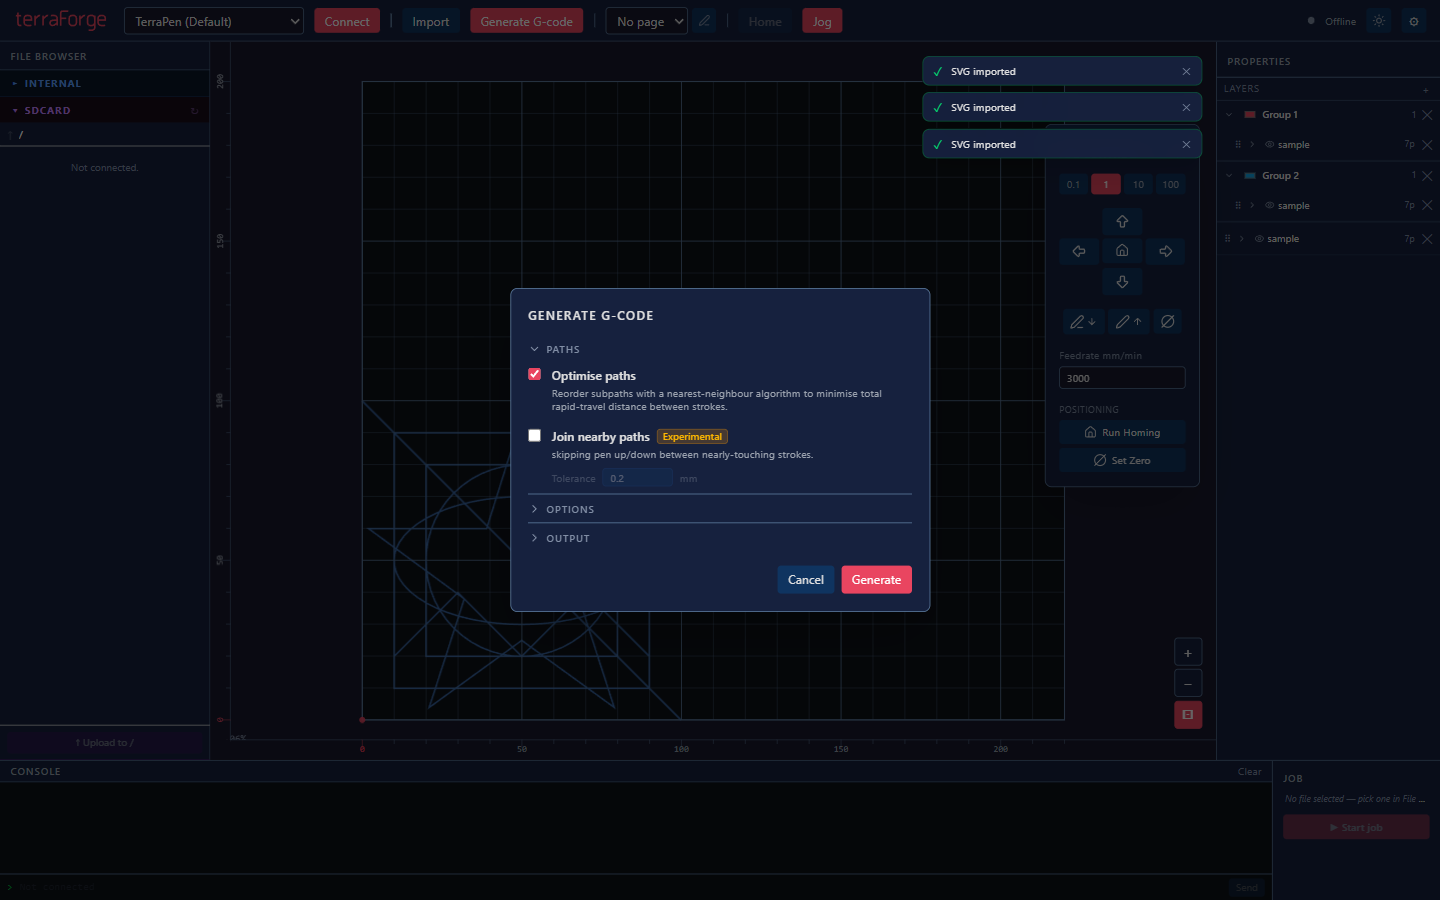
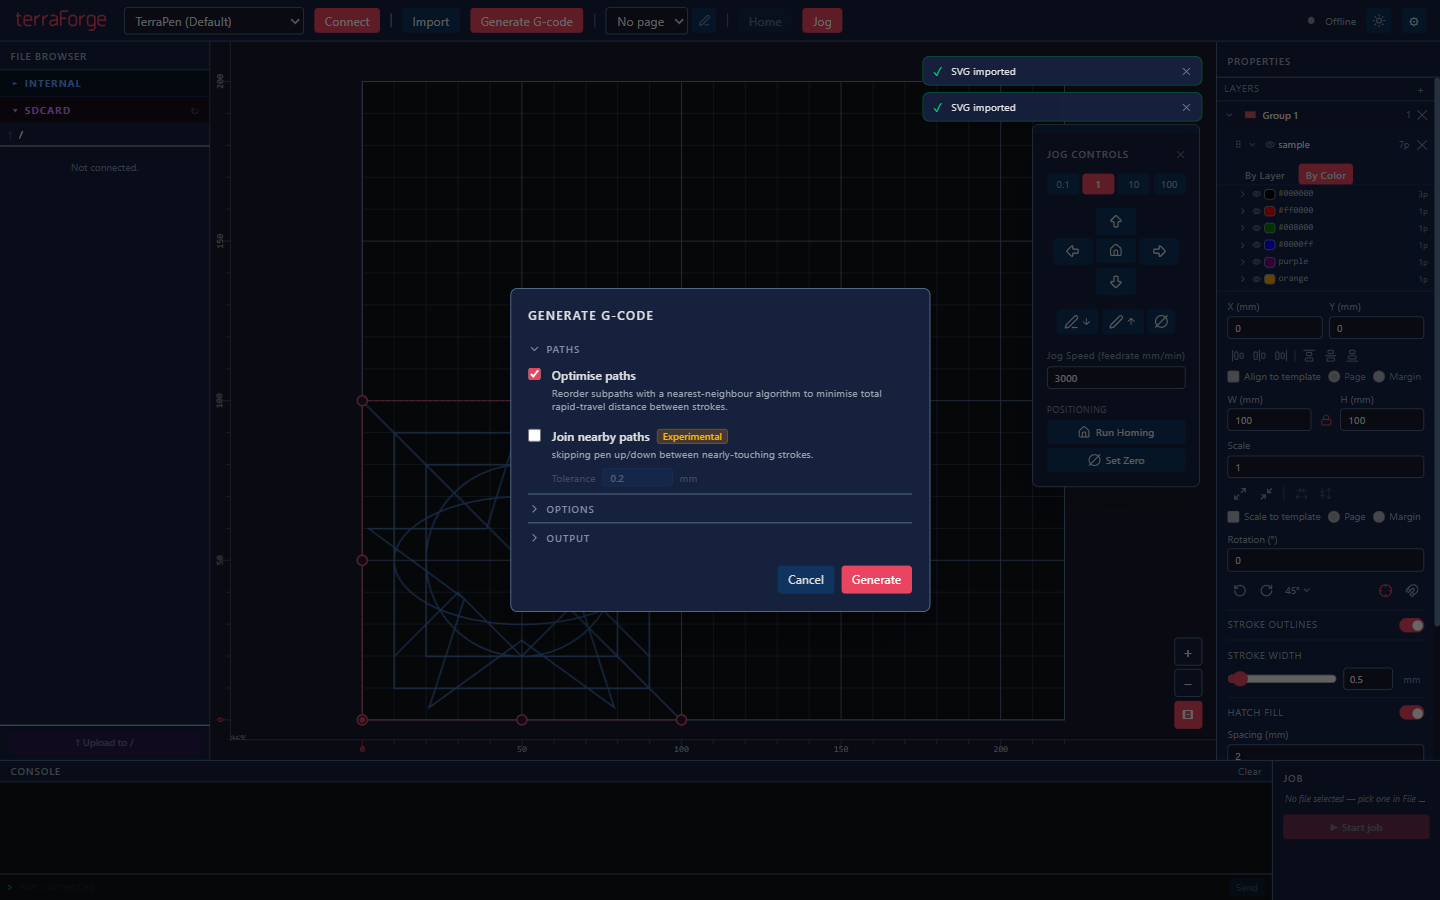
Update docs to cover new features

diff --git a/tests/e2e/take-screenshots.spec.ts b/tests/e2e/take-screenshots.spec.ts
@@ -376,6 +376,42 @@ test("13-layer-groups — properties panel with layer groups section", async () 
   await rightAside.evaluate((el) => (el.scrollTop = 0));
 });
 
+// ─── 13b: Properties panel — colour groups ───────────────────────────────────
+
+test("13b-colour-groups — properties panel with import grouped by color", async () => {
+  // Ensure we have at least one import row to work with
+  const rowCount = await window.locator("text=sample").count();
+  if (rowCount === 0) {
+    await mockOpenDialog(electronApp, fixturePath("sample.svg"));
+    await window.locator("button:has-text('Import')").click();
+    await window.locator("text=sample").first().waitFor({ timeout: 15_000 });
+    await window.waitForTimeout(400);
+  }
+
+  const rightAside = window.locator("aside:last-of-type");
+  await rightAside.evaluate((el) => (el.scrollTop = 0));
+  await window.waitForTimeout(150);
+
+  // Select and expand the first import row
+  await window.locator("text=sample").first().click();
+  await window.waitForTimeout(150);
+  const expandBtn = window.locator("button[aria-label='Expand paths']").first();
+  if (await expandBtn.isVisible()) {
+    await expandBtn.click();
+    await window.waitForTimeout(150);
+  }
+
+  // Switch path grouping mode from layer to color
+  await window.locator("button:has-text('By Color')").first().click();
+  await window
+    .locator("span[title='Toggle color group visibility']")
+    .first()
+    .waitFor({ timeout: 5_000 });
+  await window.waitForTimeout(150);
+
+  await shotElement(window, "aside:last-of-type", "13b-colour-groups.png", 0);
+});
+
 // ─── 14a: G-code Options dialog — Paths section ────────────────────────────
 
 test("14a-gcode-paths — G-code options dialog with Paths section open", async () => {
@@ -448,6 +484,42 @@ test("14c-gcode-output — G-code options dialog with Output section open (defau
   // Close dialog
   await window.locator("button:has-text('Cancel')").click();
   await window.waitForTimeout(200);
+});
+
+// ─── 14d: G-code Options dialog — Output section with colour export options ─
+
+test("14d-gcode-output-colour-groups — output section showing per-colour export options", async () => {
+  // Ensure at least one import exists so Generate G-code is enabled.
+  const rowCount = await window.locator("text=sample").count();
+  if (rowCount === 0) {
+    await mockOpenDialog(electronApp, fixturePath("sample.svg"));
+    await window.locator("button:has-text('Import')").click();
+    await window.locator("text=sample").first().waitFor({ timeout: 15_000 });
+    await window.waitForTimeout(300);
+  }
+
+  const btn = window.locator("button:has-text('Generate G-code')");
+  await btn.waitFor({ state: "visible", timeout: 5_000 });
+  await btn.click();
+  await window
+    .locator("h2:has-text('Generate G-code')")
+    .waitFor({ timeout: 5_000 });
+  await window.waitForTimeout(200);
+
+  // Enable colour export so dependent option appears active
+  const perColorCheckbox = window.locator(
+    "input[aria-label='Export one file per colour group']",
+  );
+  if (!(await perColorCheckbox.isChecked())) {
+    await perColorCheckbox.check();
+    await window.waitForTimeout(100);
+  }
+
+  await shot(window, "14d-gcode-output-colour-groups.png");
+
+  // Close dialog
+  await window.locator("button:has-text('Cancel')").click();
+  await window.waitForTimeout(150);
 });
 
 // ─── 15: File Browser panel ──────────────────────────────────────────────────

diff --git a/docs/terraForge-user-guide.md b/docs/terraForge-user-guide.md
@@ -1,6 +1,6 @@
 # terraForge — User Guide
 
-> **Version:** 1.1 · **Date:** 2026-03-29
+> **Version:** 1.2 · **Date:** 2026-04-22
 > This guide covers all currently implemented features of terraForge.
 
 ---
@@ -103,21 +103,27 @@ Click the **⚙** (gear) button at the far right of the toolbar.
 
 4. **Pen type** automatically fills in sensible defaults for the pen commands:
 
-   | Pen Type | Pen Up  | Pen Down |
-   | -------- | ------- | -------- |
-   | Solenoid | `M3S0`  | `M3S1`   |
-   | Servo    | `G0Z15` | `G0Z0`   |
-   | Stepper  | `G0Z15` | `G0Z0`   |
+   | Pen Type | Pen Up  | Pen Down | Pen-down Delay |
+   | -------- | ------- | -------- | -------------- |
+   | Solenoid | `M3S0`  | `M3S1`   | `50 ms`        |
+   | Servo    | `G0Z15` | `G0Z0`   | `0 ms`         |
+   | Stepper  | `G0Z15` | `G0Z0`   | `0 ms`         |
 
    Use the **⇕ Swap** button if your solenoid wiring is reversed. Use **↺ Reset** to restore type defaults after manual edits.
 
-5. Fill in the **Connection** section (see connection details in §4).
+   The **Pen-down delay (ms)** field controls dwell time inserted after pen-down and before XY drawing starts.
 
-6. Click **Save Changes**.
+5. Set your default speeds:
+   - **Draw speed (mm/min)**: default plotting feedrate for generated G-code.
+   - **Jog speed (mm/min)**: default speed used by jog moves.
 
-7. Click **Set as Active** to make this the working machine.
+6. Fill in the **Connection** section (see connection details in §4).
 
-8. Click **Close**.
+7. Click **Save Changes**.
+
+8. Click **Set as Active** to make this the working machine.
+
+9. Click **Close**.
 
 ![Completed machine config form](../docs/resources/04-machine-config-completed.png)
 
@@ -409,10 +415,16 @@ The **🔒 padlock** icon between the W and H fields controls aspect ratio:
 
 ### Scale Shortcuts
 
-Two buttons appear below the Scale input:
+Four transform buttons appear below the Scale input:
 
-- **⊞ Fit to bed** — scales the import as large as possible while keeping it within the bed boundary, then repositions it at the bed origin.
-- **⊟ 1:1 reset** — restores scale to 1 (1 SVG user unit = 1 mm).
+- **⊞ Fit to bed / Fit to page / Fit to margin** — scales the import as large as possible while keeping it in bounds. The target is bed by default, or page/margin when template scaling is enabled.
+- **⊟ 1:1 reset** — restores scale to 1 (1 SVG user unit = 1 mm) and re-enables ratio lock.
+- **Fit horizontal scale** — fits width only to the current target frame.
+- **Fit vertical scale** — fits height only to the current target frame.
+
+Horizontal/vertical fit buttons are disabled while aspect ratio lock is enabled.
+
+Use **Scale to template** to switch fit actions from bed to the active page template, then choose **Page** or **Margin** as the fit target. If no page template is active, template scaling controls are disabled.
 
 ### Rotation Controls
 
@@ -510,9 +522,22 @@ Drag any import row from the ungrouped list into a group header. Drag it back ou
 
 Click a group header row to select the entire group. Drag, scale, and rotate operations apply to all members simultaneously, transforming around the group centroid.
 
+### Colour Groups
+
+In addition to manual layer groups, terraForge automatically builds **colour groups** from SVG path colours.
+
+![Properties panel grouped by colour](../docs/resources/13b-colour-groups.png)
+
+- Groups are based on effective path fill/stroke colour.
+- Each colour group appears as a collapsible row in the Properties panel with a colour swatch and path count.
+- Toggle a colour group's visibility to include/exclude all paths in that group from generation.
+- Paths are sorted in hue order (rainbow order) to make colour-based workflows easier to scan.
+
+Colour grouping is useful for pen-swap workflows where each pen corresponds to one source artwork colour.
+
 ### Generating G-code Per Group
 
-When layer groups are defined, you can generate a separate G-code file for each group from the G-code options dialog. Each file is named after the group (e.g. `red_layer.gcode`, `blue_layer.gcode`). Imports not assigned to any group are collected into a single additional file.
+When layer groups are defined, you can generate a separate G-code file for each group from the G-code options dialog. Each file is named after the group (e.g. `red_layer.gcode`, `blue_layer.gcode`). Imports not assigned to any group are collected into a single additional file named `ungrouped.gcode`.
 
 ---
 
@@ -539,22 +564,27 @@ When **Join nearby paths** is enabled, a **Tolerance** field appears (default 0.
 
 ![G-code Options dialog — Options section expanded](../docs/resources/14b-gcode-options-section.png)
 
-| Option              | Description                                                                         |
-| ------------------- | ----------------------------------------------------------------------------------- |
-| **Lift pen at end** | Send the pen-up command after the last stroke (recommended)                         |
-| **Return to home**  | Rapid to origin (X0 Y0) after the job finishes                                      |
-| **Page clipping**   | Clip G-code to the page/margin boundary (only shown when a page template is active) |
-| **Custom G-code**   | Sub-collapsible for custom start/end G-code blocks inserted around the job          |
+| Option                      | Description                                                                            |
+| --------------------------- | -------------------------------------------------------------------------------------- |
+| **Lift pen at end**         | Send the pen-up command after the last stroke (recommended)                            |
+| **Return to home**          | Rapid to origin (X0 Y0) after the job finishes                                         |
+| **Override pen-down delay** | Apply a per-job pen-down delay override (ms). Shows machine default next to the input. |
+| **Override draw speed**     | Apply a per-job drawing speed (feedrate) override in mm/min.                           |
+| **Page clipping**           | Clip G-code to the page/margin boundary (only shown when a page template is active)    |
+| **Custom G-code**           | Sub-collapsible for custom start/end G-code blocks inserted around the job             |
 
 #### Output section
 
 ![G-code Options dialog — Output section expanded](../docs/resources/14c-gcode-output.png)
+![G-code Options dialog — Output section with colour export options](../docs/resources/14d-gcode-output-colour-groups.png)
 
-| Option                        | Description                                                                   |
-| ----------------------------- | ----------------------------------------------------------------------------- |
-| **Upload to SD card**         | Upload the generated file to the machine SD card root after generation        |
-| **Save to computer**          | Open a native save dialog after generation                                    |
-| **Export one file per group** | Generate a separate G-code file for each layer group (multi-colour pen plots) |
+| Option                                     | Description                                                                              |
+| ------------------------------------------ | ---------------------------------------------------------------------------------------- |
+| **Upload to SD card**                      | Upload the generated file to the machine SD card root after generation                   |
+| **Save to computer**                       | Open a native save dialog after generation                                               |
+| **Export one file per group**              | Generate a separate G-code file for each layer group (multi-colour pen plots)            |
+| **Export one file per colour group**       | Generate a separate G-code file for each detected path colour group.                     |
+| **Export separate hatch files per colour** | Generate additional hatch-only files for each colour group (requires per-colour export). |
 
 - At least one output (**Upload** or **Save**) must be selected; the **Generate** button is disabled otherwise.
 - When **Upload to SD card** is selected and a machine is connected, the uploaded file is automatically selected as the queued job — **Start job** is immediately ready.
@@ -562,7 +592,9 @@ When **Join nearby paths** is enabled, a **Tolerance** field appears (default 0.
 
 ### Persisted Preferences
 
-All four dialog settings (including join-paths tolerance) are saved in `localStorage` and restored on the next session. Defaults: Optimise = on, Join paths = off (tolerance 0.2 mm), Upload to SD = on, Save to computer = off.
+G-code dialog preferences are saved in `localStorage` and restored on the next session, including join tolerance, pen-down delay override, draw speed override, and output targets.
+
+Defaults: Optimise = on, Join paths = off (0.2 mm), Lift pen at end = on, Return to home = off, Override pen-down delay = off, Override draw speed = off, Upload to SD = on, Save to computer = off, Export per group = off, Export per colour group = off, Export hatch per colour = off.
 
 ### Path Optimisation
 
@@ -576,11 +608,17 @@ Optimised filenames append `_opt`: `logo_opt.gcode`, `logo+2_opt.gcode`.
 
 ### Save Filename
 
-The default filename in the save dialog is derived from the import name(s):
+For single-file export, the default filename base is chosen in this order:
 
-- Single import: `logo.gcode`
-- Multiple imports: `logo+2.gcode` (first name + count of others)
-- Optimised: `logo_opt.gcode` / `logo+2_opt.gcode`
+- Selected layer group name (if a group is selected)
+- Selected import name (if an import is selected)
+- First import name
+
+The name is sanitised for filesystem-safe output, and `_opt` is appended when optimisation is enabled.
+
+For per-group export, each file is named from the group name, and unassigned imports export as `ungrouped.gcode`.
+
+For per-colour export, files are generated per detected colour group using a colour-based filename (for example, `color_hex-ff0000.gcode`), with `_opt` appended when optimisation is enabled.
 
 ### G-code Header
 
